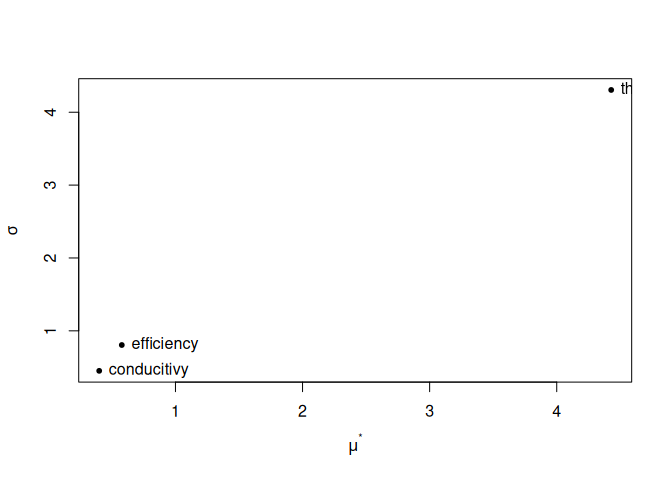
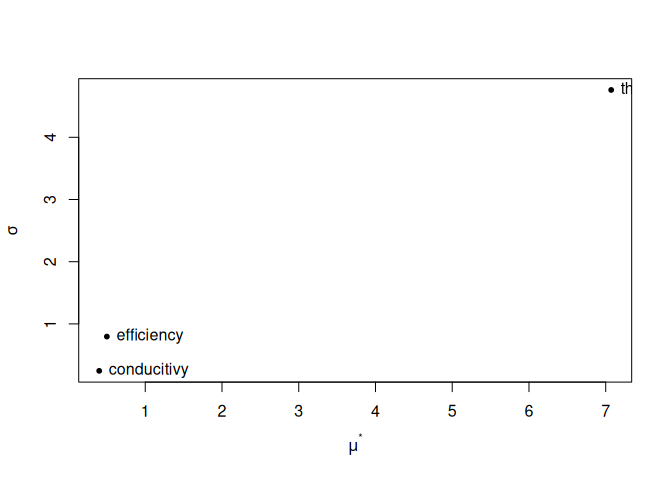
Update README.

diff --git a/README.md b/README.md
@@ -7,7 +7,7 @@ Conduct sensitivity analysis and Bayesian calibration of EnergyPlus
 models.
 
 [![Travis-CI Build
-Status](https://travis-ci.org/ideas-lab-nus/epScan.svg?branch=master)](https://travis-ci.org/ideas-lab-nus/epScan)
+Status](https://api.travis-ci.com/ideas-lab-nus/epScan.svg?token=1LqeFok1d6q5niBF8Hqr&branch=master)](https://travis-ci.org/ideas-lab-nus/epScan)
 [![codecov](https://codecov.io/gh/ideas-lab-nus/epScan/branch/master/graph/badge.svg)](https://codecov.io/gh/ideas-lab-nus/epScan)
 [![CRAN\_Status\_Badge](http://www.r-pkg.org/badges/version/epScan)](https://cran.r-project.org/package=epScan)
 [![CRAN Download
@@ -100,19 +100,19 @@ sen$apply_measure(my_actions,
 #> EnergyPlus Path: `/usr/local/EnergyPlus-8-8-0`
 #> Applied Measure: `my_actions`
 #> Parametric Models [32]: 
-#> [01]: `1_effic(0.325)_thick(0.01)_condu(0.2)`
-#> [02]: `2_effic(0.325)_thick(0.01)_condu(0.1)`
-#> [03]: `3_effic(0.325)_thick(0.0275)_condu(0.1)`
-#> [04]: `4_effic(0.55)_thick(0.0275)_condu(0.1)`
-#> [05]: `5_effic(0.325)_thick(0.045)_condu(0.3)`
-#> [06]: `6_effic(0.325)_thick(0.045)_condu(0.4)`
-#> [07]: `7_effic(0.325)_thick(0.0625)_condu(0.4)`
-#> [08]: `8_effic(0.55)_thick(0.0625)_condu(0.4)`
-#> [09]: `9_effic(0.1)_thick(0.0625)_condu(0.2)`
-#> [10]: `10_effic(0.1)_thick(0.08)_condu(0.2)`
-#> [11]: `11_effic(0.325)_thick(0.08)_condu(0.2)`
-#> [12]: `12_effic(0.325)_thick(0.08)_condu(0.1)`
-#> [13]: `13_effic(1)_thick(0.0625)_condu(0.2)`
+#> [01]: `1_effic(0.775)_thick(0.01)_condu(0.3)`
+#> [02]: `2_effic(0.775)_thick(0.01)_condu(0.2)`
+#> [03]: `3_effic(0.775)_thick(0.0275)_condu(0.2)`
+#> [04]: `4_effic(1)_thick(0.0275)_condu(0.2)`
+#> [05]: `5_effic(0.325)_thick(0.08)_condu(0.6)`
+#> [06]: `6_effic(0.1)_thick(0.08)_condu(0.6)`
+#> [07]: `7_effic(0.1)_thick(0.0625)_condu(0.6)`
+#> [08]: `8_effic(0.1)_thick(0.0625)_condu(0.5)`
+#> [09]: `9_effic(1)_thick(0.0275)_condu(0.4)`
+#> [10]: `10_effic(1)_thick(0.01)_condu(0.4)`
+#> [11]: `11_effic(1)_thick(0.01)_condu(0.5)`
+#> [12]: `12_effic(0.775)_thick(0.01)_condu(0.5)`
+#> [13]: `13_effic(1)_thick(0.08)_condu(0.5)`
 ....
 ```
 
@@ -121,25 +121,25 @@ Get samples
 ``` r
 sen$samples()
 #>     case efficiency thickness conducitivy
-#>  1:    1      0.325    0.0100         0.2
-#>  2:    2      0.325    0.0100         0.1
-#>  3:    3      0.325    0.0275         0.1
-#>  4:    4      0.550    0.0275         0.1
-#>  5:    5      0.325    0.0450         0.3
-#>  6:    6      0.325    0.0450         0.4
-#>  7:    7      0.325    0.0625         0.4
-#>  8:    8      0.550    0.0625         0.4
-#>  9:    9      0.100    0.0625         0.2
-#> 10:   10      0.100    0.0800         0.2
-#> 11:   11      0.325    0.0800         0.2
-#> 12:   12      0.325    0.0800         0.1
-#> 13:   13      1.000    0.0625         0.2
-#> 14:   14      0.775    0.0625         0.2
-#> 15:   15      0.775    0.0625         0.1
-#> 16:   16      0.775    0.0800         0.1
-#> 17:   17      0.775    0.0450         0.4
-#> 18:   18      0.550    0.0450         0.4
-#> 19:   19      0.550    0.0450         0.3
+#>  1:    1      0.775    0.0100         0.3
+#>  2:    2      0.775    0.0100         0.2
+#>  3:    3      0.775    0.0275         0.2
+#>  4:    4      1.000    0.0275         0.2
+#>  5:    5      0.325    0.0800         0.6
+#>  6:    6      0.100    0.0800         0.6
+#>  7:    7      0.100    0.0625         0.6
+#>  8:    8      0.100    0.0625         0.5
+#>  9:    9      1.000    0.0275         0.4
+#> 10:   10      1.000    0.0100         0.4
+#> 11:   11      1.000    0.0100         0.5
+#> 12:   12      0.775    0.0100         0.5
+#> 13:   13      1.000    0.0800         0.5
+#> 14:   14      0.775    0.0800         0.5
+#> 15:   15      0.775    0.0625         0.5
+#> 16:   16      0.775    0.0625         0.4
+#> 17:   17      0.775    0.0800         0.1
+#> 18:   18      1.000    0.0800         0.1
+#> 19:   19      1.000    0.0625         0.1
 ....
 ```
 
@@ -155,19 +155,19 @@ sen$run(dir = tempdir(), echo = FALSE)
 #> EnergyPlus Path: `/usr/local/EnergyPlus-8-8-0`
 #> Applied Measure: `my_actions`
 #> Parametric Models [32]: 
-#> [01]: `1_effic(0.325)_thick(0.01)_condu(0.2)`    <-- SUCCEEDED
-#> [02]: `2_effic(0.325)_thick(0.01)_condu(0.1)`    <-- SUCCEEDED
-#> [03]: `3_effic(0.325)_thick(0.0275)_condu(0.1)`  <-- SUCCEEDED
-#> [04]: `4_effic(0.55)_thick(0.0275)_condu(0.1)`   <-- SUCCEEDED
-#> [05]: `5_effic(0.325)_thick(0.045)_condu(0.3)`   <-- SUCCEEDED
-#> [06]: `6_effic(0.325)_thick(0.045)_condu(0.4)`   <-- SUCCEEDED
-#> [07]: `7_effic(0.325)_thick(0.0625)_condu(0.4)`  <-- SUCCEEDED
-#> [08]: `8_effic(0.55)_thick(0.0625)_condu(0.4)`   <-- SUCCEEDED
-#> [09]: `9_effic(0.1)_thick(0.0625)_condu(0.2)`    <-- SUCCEEDED
-#> [10]: `10_effic(0.1)_thick(0.08)_condu(0.2)`     <-- SUCCEEDED
-#> [11]: `11_effic(0.325)_thick(0.08)_condu(0.2)`   <-- SUCCEEDED
-#> [12]: `12_effic(0.325)_thick(0.08)_condu(0.1)`   <-- SUCCEEDED
-#> [13]: `13_effic(1)_thick(0.0625)_condu(0.2)`     <-- SUCCEEDED
+#> [01]: `1_effic(0.775)_thick(0.01)_condu(0.3)`    <-- SUCCEEDED
+#> [02]: `2_effic(0.775)_thick(0.01)_condu(0.2)`    <-- SUCCEEDED
+#> [03]: `3_effic(0.775)_thick(0.0275)_condu(0.2)`  <-- SUCCEEDED
+#> [04]: `4_effic(1)_thick(0.0275)_condu(0.2)`      <-- SUCCEEDED
+#> [05]: `5_effic(0.325)_thick(0.08)_condu(0.6)`    <-- SUCCEEDED
+#> [06]: `6_effic(0.1)_thick(0.08)_condu(0.6)`      <-- SUCCEEDED
+#> [07]: `7_effic(0.1)_thick(0.0625)_condu(0.6)`    <-- SUCCEEDED
+#> [08]: `8_effic(0.1)_thick(0.0625)_condu(0.5)`    <-- SUCCEEDED
+#> [09]: `9_effic(1)_thick(0.0275)_condu(0.4)`      <-- SUCCEEDED
+#> [10]: `10_effic(1)_thick(0.01)_condu(0.4)`       <-- SUCCEEDED
+#> [11]: `11_effic(1)_thick(0.01)_condu(0.5)`       <-- SUCCEEDED
+#> [12]: `12_effic(0.775)_thick(0.01)_condu(0.5)`   <-- SUCCEEDED
+#> [13]: `13_effic(1)_thick(0.08)_condu(0.5)`       <-- SUCCEEDED
 ....
 
 # extract output
@@ -183,17 +183,17 @@ eng <- sen$tabular_data(table_name = "site and source energy",
 #> sensitivity::morris(model = NULL, factors = fctr, r = r, design = list(type = "oat",     levels = par$num$meta$levels, grid.jump = grid_jump), binf = par$num$meta$min,     bsup = par$num$meta$max, scale = FALSE)
 #> 
 #> Model runs: 32 
-#>                     mu   mu.star     sigma
-#> efficiency  -0.5777778 0.5777778 0.8049231
-#> thickness   -4.4285714 4.4285714 4.3060741
-#> conducitivy  0.2000000 0.4000000 0.4503967
+#>                    mu  mu.star     sigma
+#> efficiency  -0.500000 0.500000 0.7956673
+#> thickness   -7.071429 7.071429 4.7607482
+#> conducitivy  0.400000 0.400000 0.2449490
 
 # extract data
 attr(result, "data")
-#>    index        name         mu   mu.star     sigma
-#> 1:     1  efficiency -0.5777778 0.5777778 0.8049231
-#> 2:     2   thickness -4.4285714 4.4285714 4.3060741
-#> 3:     3 conducitivy  0.2000000 0.4000000 0.4503967
+#>    index        name        mu  mu.star     sigma
+#> 1:     1  efficiency -0.500000 0.500000 0.7956673
+#> 2:     2   thickness -7.071429 7.071429 4.7607482
+#> 3:     3 conducitivy  0.400000 0.400000 0.2449490
 ```
 
 Plot
@@ -229,7 +229,7 @@ current seed model.
 #> Initializing RDD... [SUCCESSFUL]
 #> ══ EnergyPlus Report Data Dictionary File ═════════════════════════════════
 #>   * EnergyPlus version: 8.8.0 (7c3bbe4830)
-#>   * Simulation started: 2019-09-12 04:54:00
+#>   * Simulation started: 2019-09-13 03:57:00
 #> 
 #> ── Details ────────────────────────────────────────────────────────────────
 #>      index reported_time_step report_type
@@ -251,7 +251,7 @@ current seed model.
 (mdd <- bc$read_mdd())
 #> ══ EnergyPlus Meter Data Dictionary File ══════════════════════════════════
 #>   * EnergyPlus version: 8.8.0 (7c3bbe4830)
-#>   * Simulation started: 2019-09-12 04:54:00
+#>   * Simulation started: 2019-09-13 03:57:00
 #> 
 #> ── Details ────────────────────────────────────────────────────────────────
 #>      index reported_time_step report_type
@@ -488,8 +488,8 @@ bc$param(
 #> EnergyPlus Path: `/usr/local/EnergyPlus-8-8-0`
 #> Applied Measure: ``
 #> Parametric Models [2]: 
-#> [1]: `1_chiller1(3.866961)_chiller2(2.870356)_equip(19.76338)_fan1e(0.4745304)_fan2e(0.2552674)_fan3e(`
-#> [2]: `2_chiller1(1.624242)_chiller2(3.341994)_equip(7.868543)_fan1e(0.6941959)_fan2e(0.7146523)_fan3e(`
+#> [1]: `1_chiller1(3.269508)_chiller2(1.8782)_equip(6.568681)_fan1e(0.4158435)_fan2e(0.1973639)_fan3e(0.`
+#> [2]: `2_chiller1(2.548999)_chiller2(3.150411)_equip(17.37916)_fan1e(0.8259226)_fan2e(0.5983446)_fan3e(`
 #> << Job has not been run before >>
 ```
 
@@ -500,19 +500,19 @@ Parameter values can be retrieved using `$samples()`.
 ``` r
 bc$samples()
 #>    case chiller1cop chiller2cop equipment   fan1eff   fan2eff   fan3eff
-#> 1:    1    3.866961    2.870356 19.763385 0.4745304 0.2552674 0.2501799
-#> 2:    2    1.624242    3.341994  7.868543 0.6941959 0.7146523 0.6084267
-#>      fan5eff   infil_rate    lights    people
-#> 1: 0.1774733 0.0008959121  8.146156  7.791732
-#> 2: 0.7798118 0.0003279914 14.955283 10.965330
+#> 1:    1    3.269508    1.878200  6.568681 0.4158435 0.1973639 0.6244455
+#> 2:    2    2.548999    3.150411 17.379161 0.8259226 0.5983446 0.1711960
+#>      fan5eff   infil_rate   lights    people
+#> 1: 0.4309617 0.0007684997  5.05934 13.319322
+#> 2: 0.8508381 0.0006475060 18.54624  8.491197
 ```
 
 Generated `Idf`s can be retrieved using `$models()`.
 
 ``` r
 names(bc$models())
-#> [1] "1_chiller1(3.866961)_chiller2(2.870356)_equip(19.76338)_fan1e(0.4745304)_fan2e(0.2552674)_fan3e("
-#> [2] "2_chiller1(1.624242)_chiller2(3.341994)_equip(7.868543)_fan1e(0.6941959)_fan2e(0.7146523)_fan3e("
+#> [1] "1_chiller1(3.269508)_chiller2(1.8782)_equip(6.568681)_fan1e(0.4158435)_fan2e(0.1973639)_fan3e(0."
+#> [2] "2_chiller1(2.548999)_chiller2(3.150411)_equip(17.37916)_fan1e(0.8259226)_fan2e(0.5983446)_fan3e("
 ```
 
 ### Run simulations and gather data
@@ -533,9 +533,9 @@ bc$eplus_run(dir = tempdir(), run_period = list("example", 1, 1, 1, 7), echo = F
 #> EnergyPlus Path: `/usr/local/EnergyPlus-8-8-0`
 #> Applied Measure: ``
 #> Parametric Models [2]: 
-#> [1]: `1_chiller1(3.866961)_chiller2(2.870356)_equip(19.76338)_fan1e(0.4745304)_fan2e(0.2552674)_fan3e(` <-- SUCCEEDED
-#> [2]: `2_chiller1(1.624242)_chiller2(3.341994)_equip(7.868543)_fan1e(0.6941959)_fan2e(0.7146523)_fan3e(` <-- SUCCEEDED
-#>  Simulation started at `2019-09-12 04:54:33` and completed successfully after 20.34 secs.
+#> [1]: `1_chiller1(3.269508)_chiller2(1.8782)_equip(6.568681)_fan1e(0.4158435)_fan2e(0.1973639)_fan3e(0.` <-- SUCCEEDED
+#> [2]: `2_chiller1(2.548999)_chiller2(3.150411)_equip(17.37916)_fan1e(0.8259226)_fan2e(0.5983446)_fan3e(` <-- SUCCEEDED
+#>  Simulation started at `2019-09-13 03:57:09` and completed successfully after 23.51 secs.
 ```
 
 `$data_sim()` returns a `data.table` (when `merge` is `TRUE`) or a list
